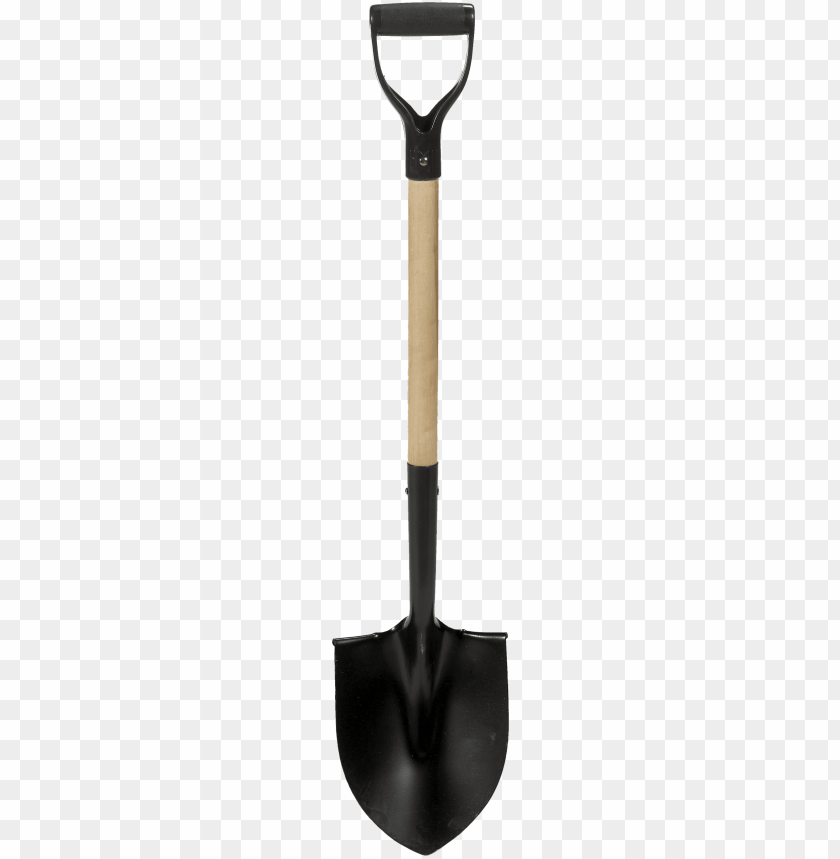
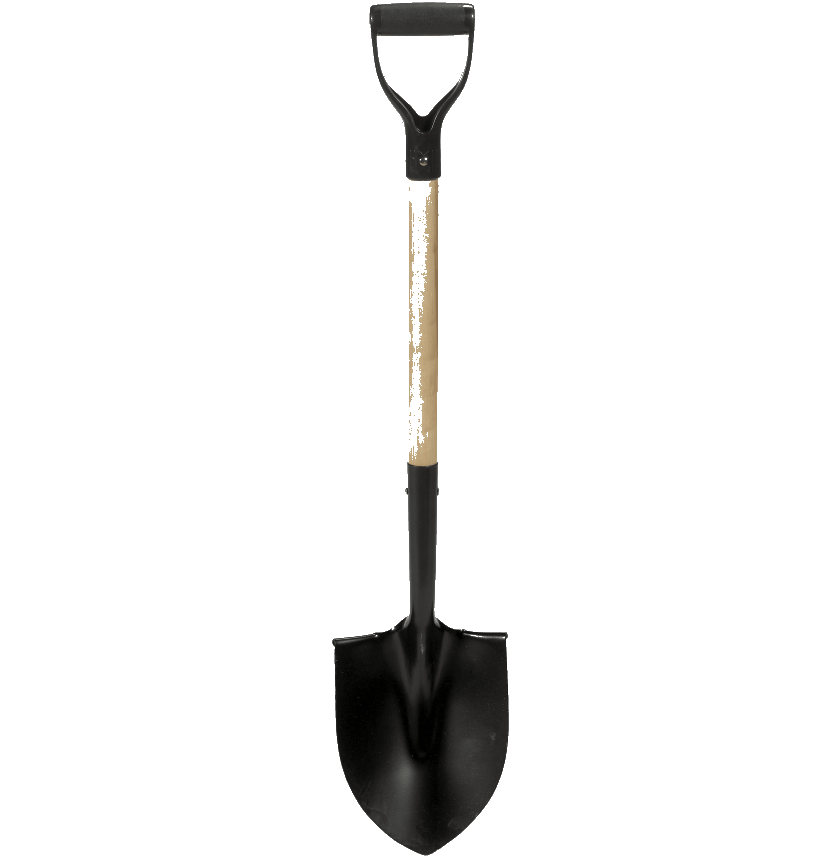
Item pictures, descriptions

Changed region(s): [[0.4643, 0.2119, 0.5262, 0.5448]]

diff --git a/html/index.html b/html/index.html
@@ -23,12 +23,12 @@
         <table>
             <tr>
                 <td>
-                    <img src="../other_img/shovel.png" style="opacity: 40%" alt="Household Item" height="120px" width="120px">
+                    <img src="../other_img/shovel.png" alt="Lapát" height="120px" width="120px">
                 </td>
                 <td>
                     <h2>Lapát</h2>
-                    <p>"A lapát egy kéziszerszám a föld ásására, mozgatására, növények átültetésére és építkezéseken való használatra. Fából vagy fémből készül, lapos, lapos végű formájú, általában markolattal vagy nyéllel együtt értékesítik."</p>
-                    <p class="price">$19.99</p>
+                    <p>A lapát egy kéziszerszám a föld ásására, mozgatására és növények átültetésére. Fából vagy fémből készül, lapos, lapos végű formájú, általában markolattal vagy nyéllel együtt értékesítik.</p>
+                    <p class="price">Ár: 5000 Ft</p>
                     <button class="cart-icon"><i class="fas fa-shopping-cart">Kosárba</i></button>
                 </td>
             </tr>
@@ -38,12 +38,12 @@
         <table>
             <tr>
                 <td>
-                    <img src="../other_img/shovel.png" style="opacity: 40%" alt="Household Item" height="120px" width="120px">
+                    <img src="../other_img/axe.png" alt="Balta" height="120px" width="120px">
                 </td>
                 <td>
-                    <h2>Lapát</h2>
-                    <p>"A lapát egy kéziszerszám a föld ásására, mozgatására, növények átültetésére és építkezéseken való használatra. Fából vagy fémből készül, lapos, lapos végű formájú, általában markolattal vagy nyéllel együtt értékesítik."</p>
-                    <p class="price">$19.99</p>
+                    <h2>Balta</h2>
+                    <p>A balta egy kéziszerszám, amelyet fakitermelésre, faaprításra és általános használatra terveztek. A pengéje általában acélból vagy más kemény anyagból készül, és egy erős, fa vagy műanyag nyélre van erősítve.</p>
+                    <p class="price">Ár: 8000 Ft</p>
                     <button class="cart-icon"><i class="fas fa-shopping-cart">Kosárba</i></button>
                 </td>
             </tr>
@@ -53,12 +53,12 @@
         <table>
             <tr>
                 <td>
-                    <img src="../other_img/shovel.png" style="opacity: 40%" alt="Household Item" height="120px" width="120px">
+                    <img src="../other_img/can.png" alt="Locsolókanna" height="120px" width="120px">
                 </td>
                 <td>
-                    <h2>Lapát</h2>
-                    <p>"A lapát egy kéziszerszám a föld ásására, mozgatására, növények átültetésére és építkezéseken való használatra. Fából vagy fémből készül, lapos, lapos végű formájú, általában markolattal vagy nyéllel együtt értékesítik."</p>
-                    <p class="price">$19.99</p>
+                    <h2>Locsolókanna</h2>
+                    <p>A locsolókanna egy hasznos kerti eszköz, amely lehetővé teszi a növények pontos öntözését. Általában műanyagból készül, és kézi pumpával rendelkezik, amely segítségével a víz könnyedén kijuttatható a kanna segítségével.</p>
+                    <p class="price">Ár: 1500 Ft</p>
                     <button class="cart-icon"><i class="fas fa-shopping-cart">Kosárba</i></button>
                 </td>
             </tr>
@@ -68,12 +68,12 @@
         <table>
             <tr>
                 <td>
-                    <img src="../other_img/shovel.png" style="opacity: 40%" alt="Household Item" height="120px" width="120px">
+                    <img src="../other_img/fork.png" alt="Kerti villa" height="120px" width="120px">
                 </td>
                 <td>
-                    <h2>Lapát</h2>
-                    <p>"A lapát egy kéziszerszám a föld ásására, mozgatására, növények átültetésére és építkezéseken való használatra. Fából vagy fémből készül, lapos, lapos végű formájú, általában markolattal vagy nyéllel együtt értékesítik."</p>
-                    <p class="price">$19.99</p>
+                    <h2>Kerti villa</h2>
+                    <p>A kerti villa egy hasznos eszköz a talaj megmunkálásához, mint például az ásás, a szellőzés és a komposztkeverés. Általában acélból készül, és hosszú nyelű, fogazott fejjel rendelkezik.</p>
+                    <p class="price">Ár: 4000 Ft</p>
                     <button class="cart-icon"><i class="fas fa-shopping-cart">Kosárba</i></button>
                 </td>
             </tr>
@@ -83,12 +83,12 @@
         <table>
             <tr>
                 <td>
-                    <img src="../other_img/shovel.png" style="opacity: 40%" alt="Household Item" height="120px" width="120px">
+                    <img src="../other_img/gloves.png" alt="Kerti kesztyű" height="120px" width="120px">
                 </td>
                 <td>
-                    <h2>Lapát</h2>
-                    <p>"A lapát egy kéziszerszám a föld ásására, mozgatására, növények átültetésére és építkezéseken való használatra. Fából vagy fémből készül, lapos, lapos végű formájú, általában markolattal vagy nyéllel együtt értékesítik."</p>
-                    <p class="price">$19.99</p>
+                    <h2>Kerti kesztyű</h2>
+                    <p>A kerti kesztyű egy fontos eszköz a kertészkedés során, amely megvédi a kezét a sérülésektől és a piszkos munkától. Általában textilből vagy műanyagból készül, és különféle méretű és stílusú lehet.</p>
+                    <p class="price">Ár: 2000 Ft</p>
                     <button class="cart-icon"><i class="fas fa-shopping-cart">Kosárba</i></button>
                 </td>
             </tr>
@@ -98,12 +98,12 @@
         <table>
             <tr>
                 <td>
-                    <img src="../other_img/shovel.png" style="opacity: 40%" alt="Household Item" height="120px" width="120px">
+                    <img src="../other_img/hoe.png" alt="Kapa" height="120px" width="120px">
                 </td>
                 <td>
-                    <h2>Lapát</h2>
-                    <p>"A lapát egy kéziszerszám a föld ásására, mozgatására, növények átültetésére és építkezéseken való használatra. Fából vagy fémből készül, lapos, lapos végű formájú, általában markolattal vagy nyéllel együtt értékesítik."</p>
-                    <p class="price">$19.99</p>
+                    <h2>Kapa</h2>
+                    <p>A kapa egy erős és hatékony eszköz a talaj megmunkálására, mint például a gyomlálás és az ásás. Általában acélból készül, és egy hosszú, erős nyélre van erősítve.</p>
+                    <p class="price">Ár: 4500 Ft</p>
                     <button class="cart-icon"><i class="fas fa-shopping-cart">Kosárba</i></button>
                 </td>
             </tr>
@@ -113,12 +113,12 @@
         <table>
             <tr>
                 <td>
-                    <img src="../other_img/shovel.png" style="opacity: 40%" alt="Household Item" height="120px" width="120px">
+                    <img src="../other_img/rake.png" alt="Gereblye" height="120px" width="120px">
                 </td>
                 <td>
-                    <h2>Lapát</h2>
-                    <p>"A lapát egy kéziszerszám a föld ásására, mozgatására, növények átültetésére és építkezéseken való használatra. Fából vagy fémből készül, lapos, lapos végű formájú, általában markolattal vagy nyéllel együtt értékesítik."</p>
-                    <p class="price">$19.99</p>
+                    <h2>Gereblye</h2>
+                    <p>A gereblye egy kéziszerszám a kerti munkákhoz, mint például a fű és a levelek összegyűjtése vagy a talaj előkészítése vetéshez. Általában fa vagy műanyag nyélre van rögzítve, és fogai fémből vagy műanyagból készülnek, amelyek könnyen összeszedik az anyagokat.</p>
+                    <p class="price">Ár: 6000 Ft</p>
                     <button class="cart-icon"><i class="fas fa-shopping-cart">Kosárba</i></button>
                 </td>
             </tr>
@@ -128,12 +128,12 @@
         <table>
             <tr>
                 <td>
-                    <img src="../other_img/shovel.png" style="opacity: 40%" alt="Household Item" height="120px" width="120px">
+                    <img src="../other_img/shears.png" alt="Kerti olló" height="120px" width="120px">
                 </td>
                 <td>
-                    <h2>Lapát</h2>
-                    <p>"A lapát egy kéziszerszám a föld ásására, mozgatására, növények átültetésére és építkezéseken való használatra. Fából vagy fémből készül, lapos, lapos végű formájú, általában markolattal vagy nyéllel együtt értékesítik."</p>
-                    <p class="price">$19.99</p>
+                    <h2>Kerti olló</h2>
+                    <p>A kerti olló egy kéziszerszám a kerti munkákhoz, amelyet általában növények metszésére használnak, például a cserjék vagy virágok nyírására. Legtöbbször acél pengével és kényelmes fogóval készül, hogy könnyen és precízen lehessen vele dolgozni.</p>
+                    <p class="price">Ár: 3500 Ft</p>
                     <button class="cart-icon"><i class="fas fa-shopping-cart">Kosárba</i></button>
                 </td>
             </tr>
@@ -143,12 +143,12 @@
         <table>
             <tr>
                 <td>
-                    <img src="../other_img/shovel.png" style="opacity: 40%" alt="Household Item" height="120px" width="120px">
+                    <img src="../other_img/spade.png" alt="Ásó" height="120px" width="120px">
                 </td>
                 <td>
-                    <h2>Lapát</h2>
-                    <p>"A lapát egy kéziszerszám a föld ásására, mozgatására, növények átültetésére és építkezéseken való használatra. Fából vagy fémből készül, lapos, lapos végű formájú, általában markolattal vagy nyéllel együtt értékesítik."</p>
-                    <p class="price">$19.99</p>
+                    <h2>Ásó</h2>
+                    <p>Az ásó egy kéziszerszám a talaj ásására, ásásra és átültetésre. Általában kemény acélból készült, és markolattal vagy nyéllel van ellátva, hogy könnyen kezelhető legyen. A kerti munkák elengedhetetlen eszköze, amelynek segítségével kertjét megművelheti és javíthatja.</p>
+                    <p class="price">Ár: 7000 Ft</p>
                     <button class="cart-icon"><i class="fas fa-shopping-cart">Kosárba</i></button>
                 </td>
             </tr>

diff --git a/css/formatting.css b/css/formatting.css
@@ -40,9 +40,11 @@ nav #logo:hover {
 
 .item {
     min-width: 300px;
+    min-height: 280px;
     display: flex;
     float:left;
-    width: 32%;
+    width: 32.8%;
+    /*box-sizing: border-box;*/
     border: 3px solid rgba(60, 179, 113, 0.5);
 }
 
@@ -89,4 +91,8 @@ nav #logo:hover {
     justify-content: space-between;
     margin-right: 25px;
     margin-left: 25px;
+}
+
+p {
+    text-align: justify;
 }
